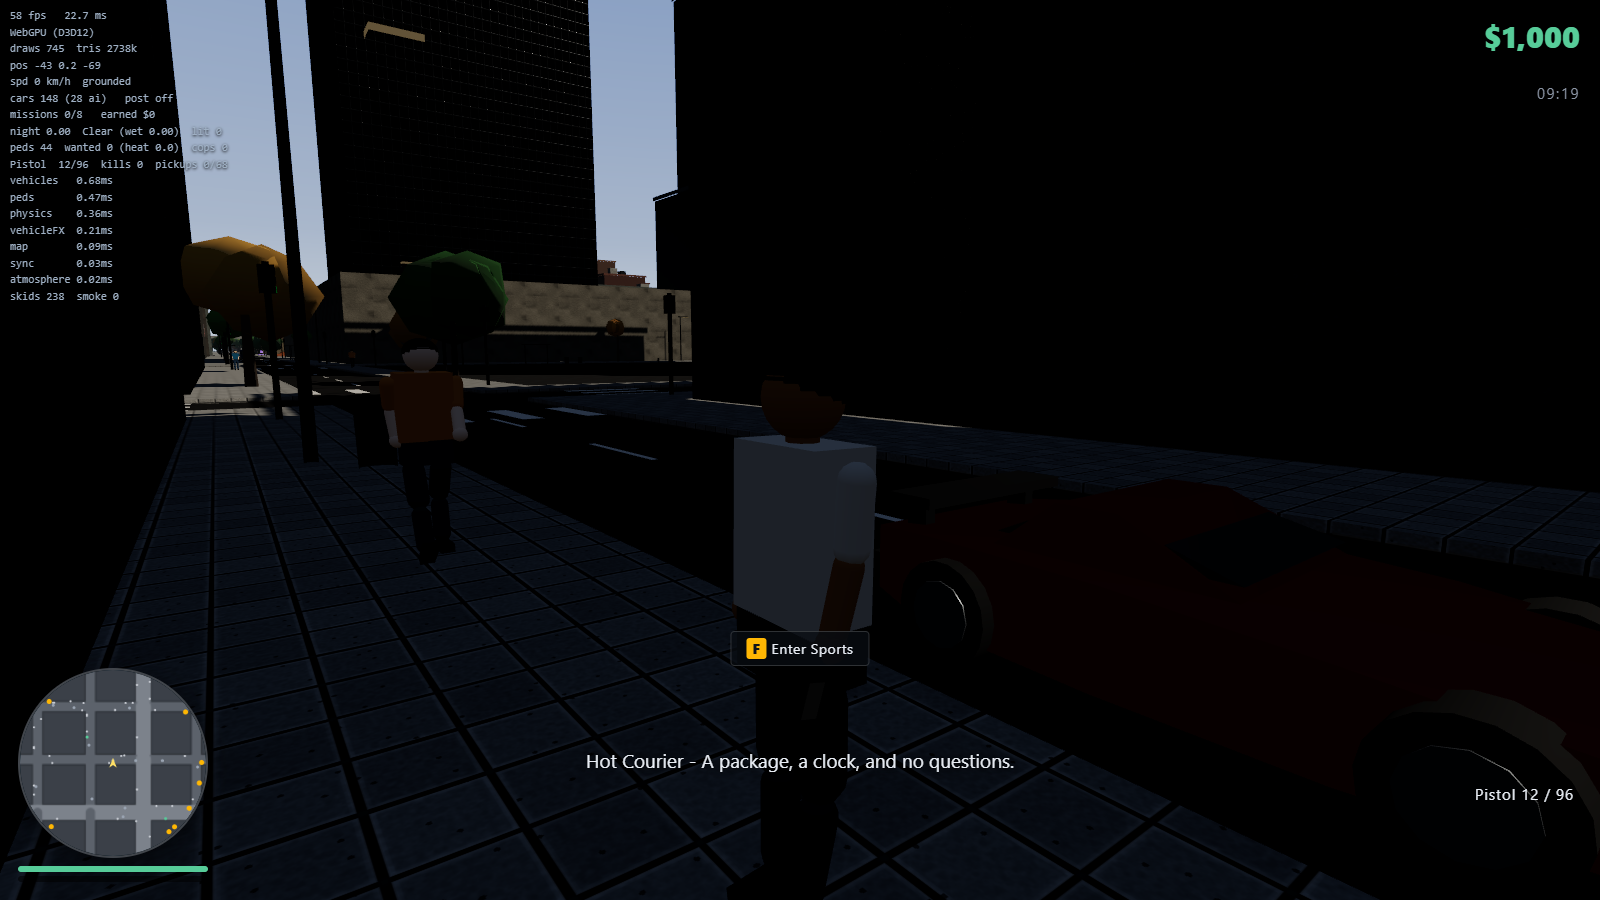
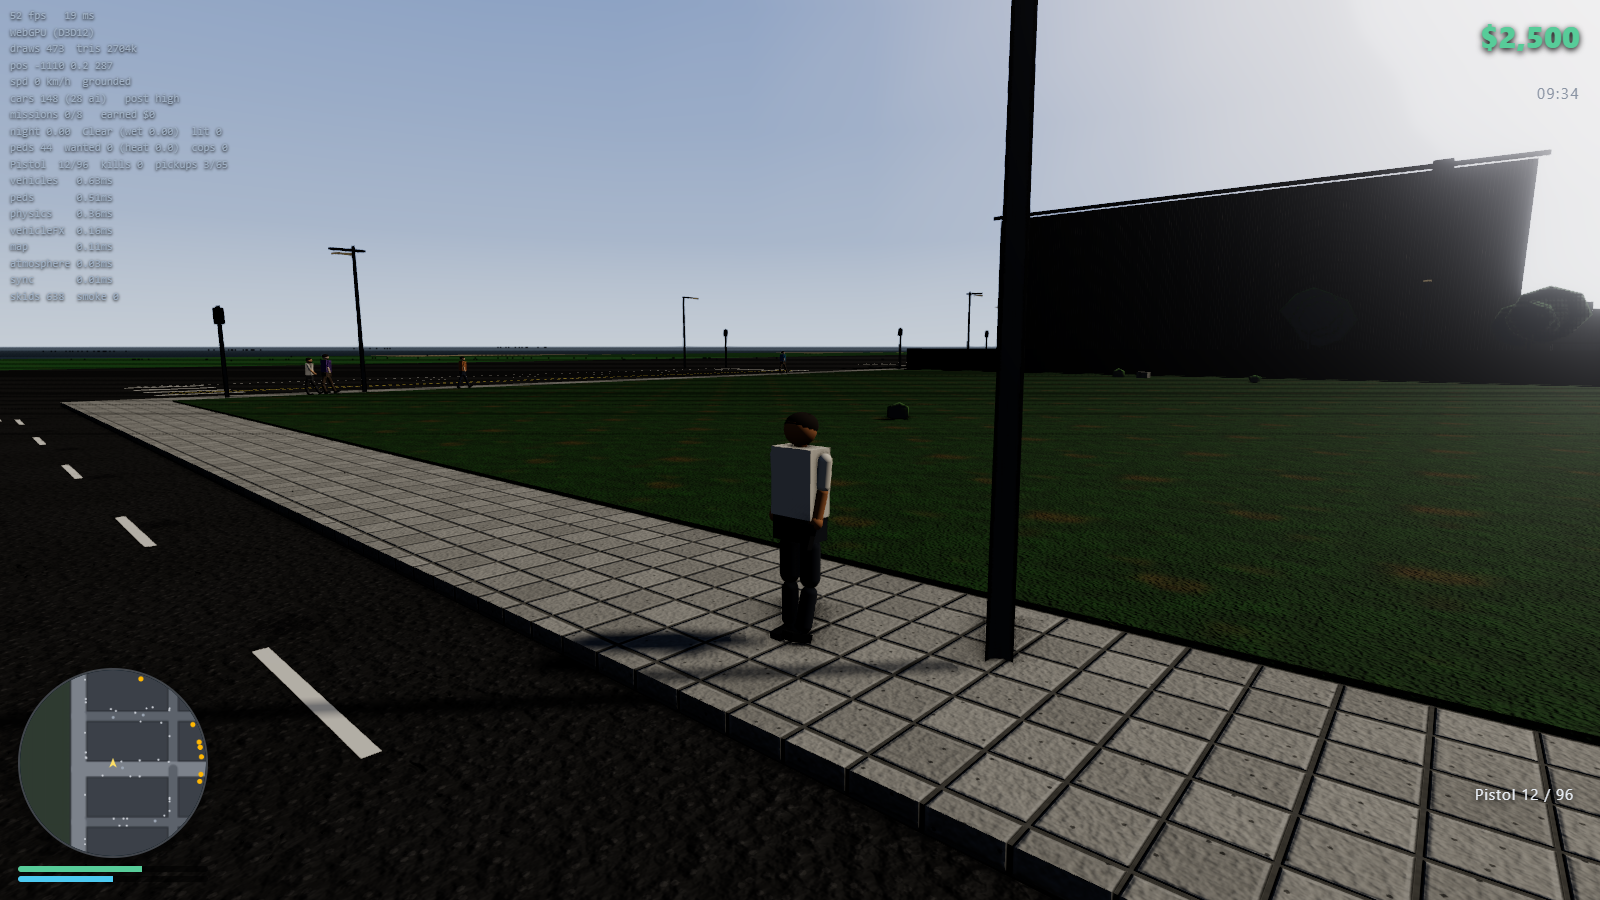
GTA: cover pickups, settings and the render pipeline (no defects found)
Twelve new checks, all passing first time. Health/armour/weapon pickups grant
what they should and the full-health guard correctly refuses to consume a health
crate. Volume reaches the audio graph, resolution scale resizes the drawing
buffer, and churning quality through all four presets or toggling post FX off
and on leaves the scene rendering rather than black - verified with a screenshot
after the churn, since an advancing frame counter does not prove the pixels.

Skid marks read as a leak at 1032 accumulated, but the pool is a fixed 2400-quad
ring buffer drawn in a single call with a draw range, so it is bounded by
construction. No change needed.

Smoke suite is now 48 checks.

diff --git a/Brainstorming/GTA/tools/smoke-probe.js b/Brainstorming/GTA/tools/smoke-probe.js
@@ -243,6 +243,85 @@ ok('mission counter agrees with mission states',
   g.missions.completed === g.missions.missions.filter(m => m.state === 'complete').length,
   `counter ${g.missions.completed} vs ${g.missions.missions.filter(m => m.state === 'complete').length} flagged`);
 
+/* -------- pickups, settings and the render pipeline -------- */
+const at = (item) => { g.player.body.setTranslation({ x: item.x, y: 1.2, z: item.z }, true); };
+const find = (type) => g.pickups.items.find((i) => i.type === type && !i.taken);
+
+/* ---------------------------------------------------------------- pickups */
+const took0 = g.pickups.collected;
+
+// Health pickup while already at full health must NOT be consumed.
+g.player.health = 100;
+const hFull = find('health');
+if (hFull) { at(hFull); await wait(1.2);
+  ok('full-health player does not waste a health pickup', !hFull.taken, `taken=${hFull.taken}`); }
+
+g.player.health = 40;
+const h = find('health');
+if (h) { at(h); await wait(1.2);
+  ok('health pickup heals and is consumed', g.player.health > 40 && h.taken,
+    `hp 40 -> ${g.player.health}, taken ${h.taken}`); }
+
+g.player.armour = 0;
+const a = find('armour');
+if (a) { at(a); await wait(1.2);
+  ok('armour pickup raises armour', g.player.armour > 0, `armour ${g.player.armour}`); }
+
+g.weapons.owned = new Set(['unarmed', 'pistol']);
+const wpn = g.pickups.items.find((i) => !i.taken && ['smg', 'shotgun', 'rifle'].includes(i.type));
+if (wpn) { at(wpn); await wait(1.2);
+  ok('weapon pickup grants the weapon', g.weapons.owned.has(wpn.type),
+    `${wpn.type}: owned [${[...g.weapons.owned]}]`); }
+
+ok('collected counter tracks pickups', g.pickups.collected > took0,
+  `${took0} -> ${g.pickups.collected}`);
+
+/* --------------------------------------------------------------- settings */
+const framesAt = () => E.frame;
+
+// Volume
+g.audio.setVolume(0.2);
+ok('volume setting reaches the audio graph',
+  Math.abs(g.audio.volume - 0.2) < 0.001 && (!g.audio.master || Math.abs(g.audio.master.gain.value - 0.2) < 0.001),
+  `volume ${g.audio.volume}, gain ${g.audio.master && g.audio.master.gain.value}`);
+g.audio.setVolume(0.65);
+
+// Resolution scale must actually resize the drawing buffer.
+const w0 = E.renderer.domElement.width;
+E.setResolutionScale(0.5);
+await wait(0.5);
+const w1 = E.renderer.domElement.width;
+ok('resolution scale resizes the framebuffer', w1 < w0, `${w0}px -> ${w1}px`);
+E.setResolutionScale(1);
+await wait(0.5);
+ok('resolution scale restores', E.renderer.domElement.width === w0, `back to ${E.renderer.domElement.width}px`);
+
+// Quality switch rebuilds the post chain and keeps rendering.
+const q0 = g.postfx.quality;
+const f0 = framesAt();
+g.postfx.setQuality('ultra');
+await wait(2);
+ok('quality switch to ultra keeps rendering', E.frame > f0 + 5 && g.postfx.quality === 'ultra',
+  `${q0} -> ${g.postfx.quality}, +${E.frame - f0} frames`);
+const f1 = framesAt();
+g.postfx.setQuality('low');
+await wait(2);
+ok('quality switch to low keeps rendering', E.frame > f1 + 5 && g.postfx.quality === 'low',
+  `+${E.frame - f1} frames`);
+g.postfx.setQuality(q0);
+await wait(1.5);
+
+// Post FX off/on must not black-screen.
+const f2 = framesAt();
+g.postfx.enabled = false;
+await wait(1.5);
+ok('post fx off keeps rendering', E.frame > f2 + 5, `+${E.frame - f2} frames`);
+const f3 = framesAt();
+g.postfx.enabled = true && !!g.postfx.post;
+await wait(1.5);
+ok('post fx back on keeps rendering', E.frame > f3 + 5 && g.postfx.enabled, `+${E.frame - f3} frames`);
+
+
 return { simSeconds: Math.round(simT), wallSeconds: Math.round((performance.now()-T0)/1000),
   ranOutOfTime: out(), passed: log.filter(l=>l.pass).length, total: log.length,
   failures: log.filter(l=>!l.pass), log };

diff --git a/Brainstorming/GTA/README.md b/Brainstorming/GTA/README.md
@@ -401,3 +401,13 @@ and cancels anything in progress; weapons rebuild their set from scratch.
 
 None of this was reachable from the old test, which only checked that money survived a
 round-trip. Money was the one field the merge happened to get right.
+
+**An iteration that finds nothing is still worth running.** Pickups, the settings panel and
+the effect pools were all checked on the assumption something would be wrong with them,
+and nothing was: the full-health guard correctly refuses to consume a health crate, volume
+reaches the audio graph, resolution scale really does resize the drawing buffer, and
+churning quality through all four presets and toggling post FX off and on leaves the scene
+rendering rather than black. Skid marks looked like a leak at 1032 of them, but the pool is
+a fixed 2400-quad ring buffer drawn in one call with a draw range, so it is bounded by
+construction. Those twelve checks are now in the suite, which is the actual return on the
+iteration: the behaviour is pinned whether or not it was broken today.

diff --git a/Brainstorming/GTA/ROADMAP.md b/Brainstorming/GTA/ROADMAP.md
@@ -111,7 +111,11 @@ Legend: `[ ]` todo `[~]` in progress `[x]` done
       weapons picked up after the save, keep missions completed after it (with the
       counter disagreeing, leaving them unplayable), and leave an in-progress mission
       running
-- [x] End-to-end smoke test (`npm run smoke`): 36 checks driven through real keyboard and
+- [x] Pickups and settings verified: health/armour/weapon pickups, the full-health guard
+      that stops a health crate being wasted, volume reaching the audio graph, resolution
+      scale resizing the framebuffer, and switching quality or toggling post FX without
+      black-screening. No defects found - these were already correct
+- [x] End-to-end smoke test (`npm run smoke`): 48 checks driven through real keyboard and
       mouse events - walk, enter/drive/exit car, enter/drive boat, a full mission from
       trigger through steal objective, drive-in and reward, weapon fire, wanted level,
       save/load round-trip, plus the failure paths - wasted, busted, mission timeout, and
